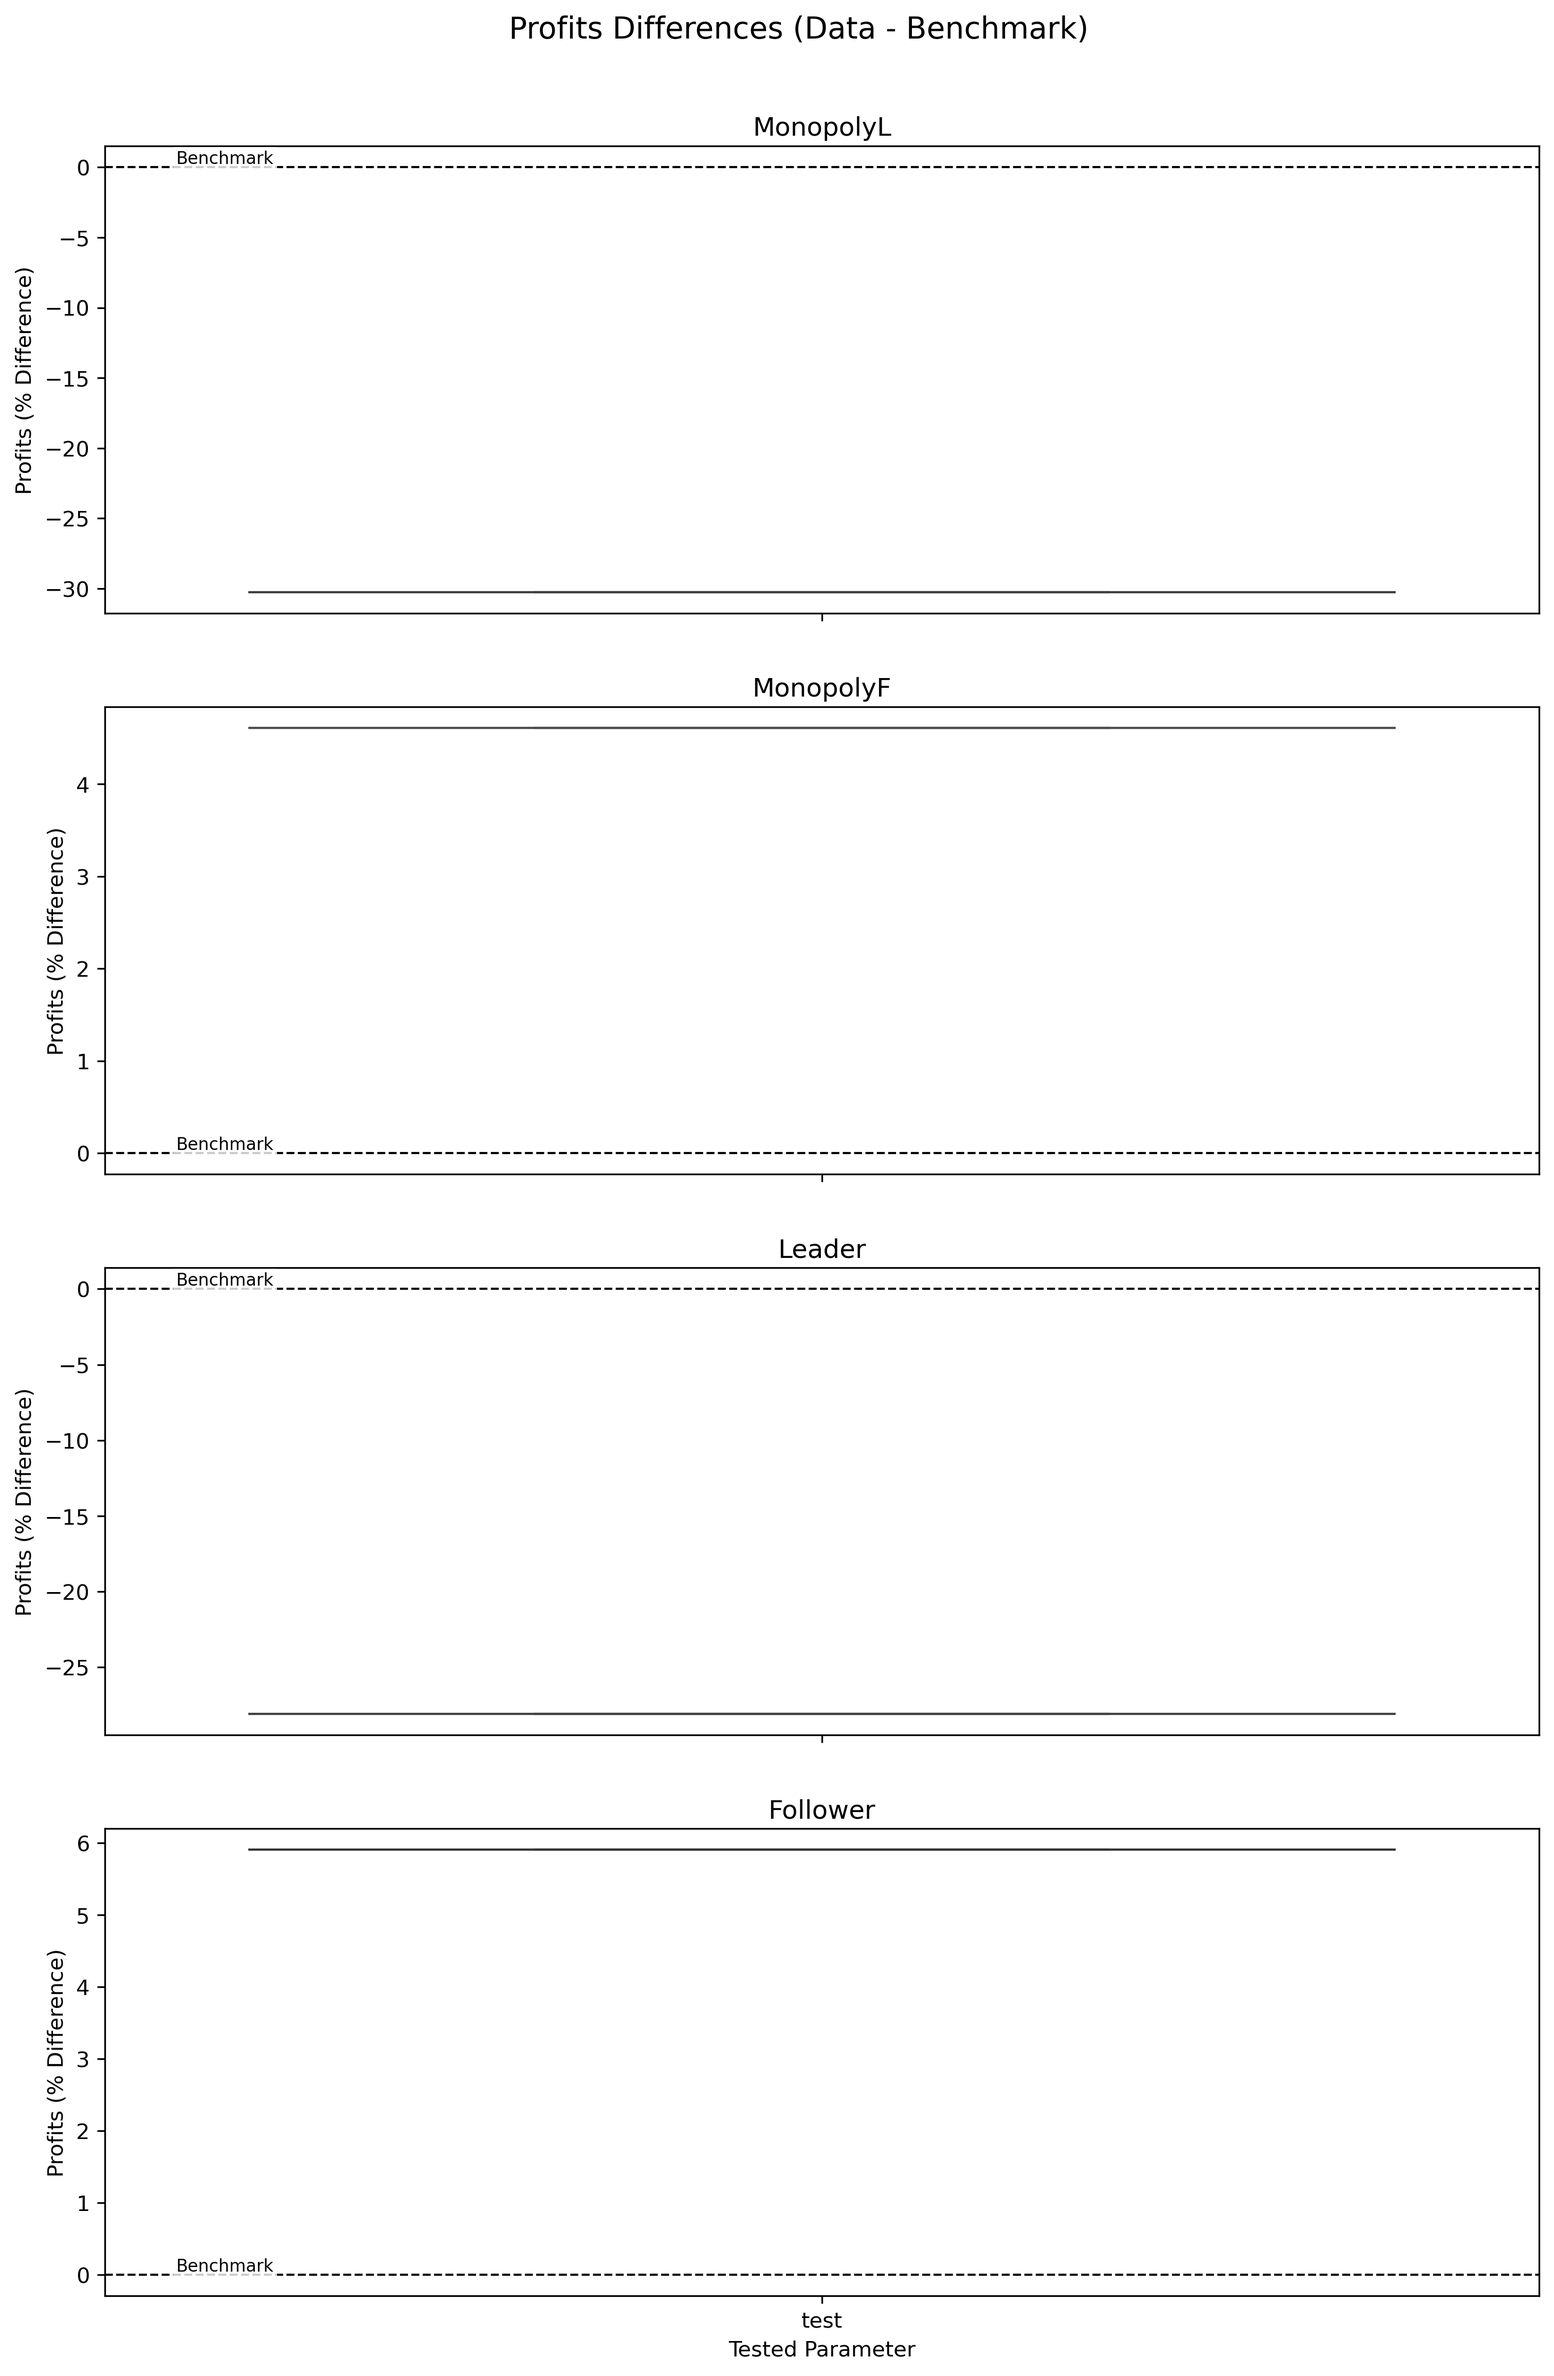
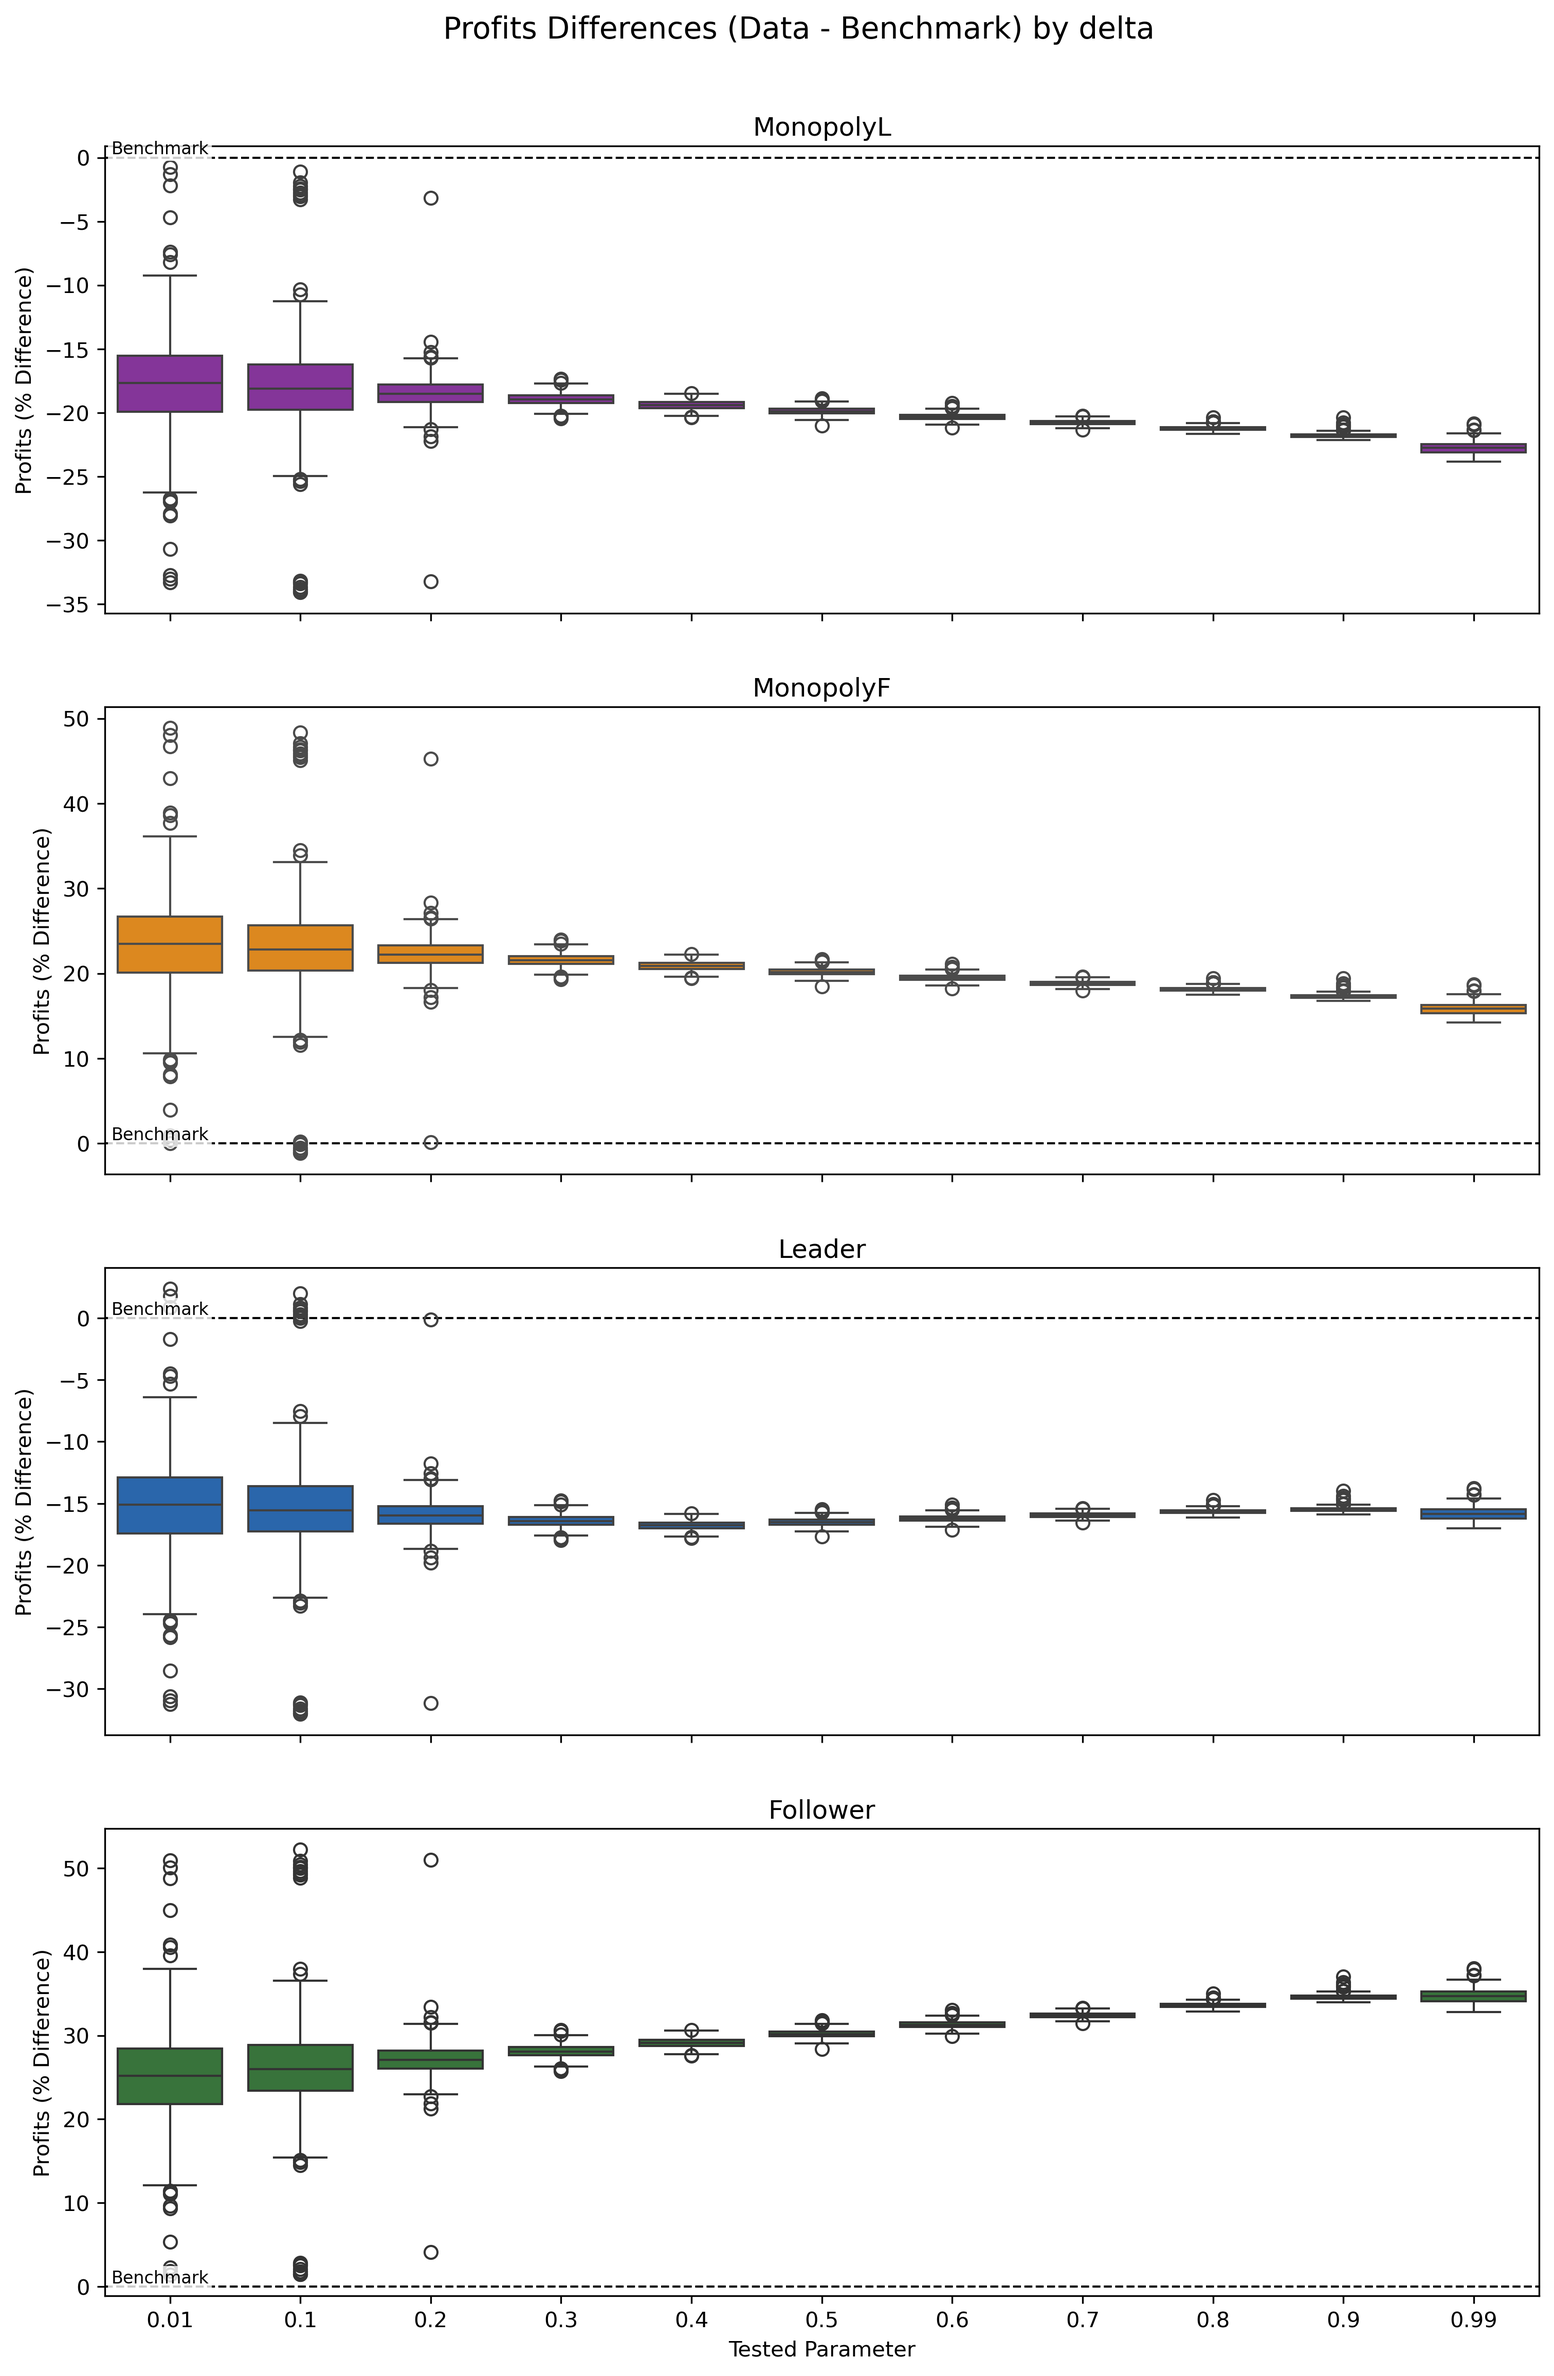
updt

diff --git a/Visualize.py b/Visualize.py
@@ -904,6 +904,22 @@ def PlotParallel(column_groups,value_name,separate_firms=False):
 
     parameter_order = sorted(final_data_dict.keys(), key=parameter_sort_key)
 
+    def parameter_display_parts(parameter):
+        number_match = re.search(r'[-+]?\d*\.?\d+(?:[eE][-+]?\d+)?', parameter)
+        if not number_match:
+            return parameter, ""
+        return number_match.group(), parameter[:number_match.start()]
+
+    parameter_labels = [parameter_display_parts(parameter)[0] for parameter in parameter_order]
+    parameter_prefixes = {
+        parameter_display_parts(parameter)[1]
+        for parameter in parameter_order
+        if parameter_display_parts(parameter)[1]
+    }
+    if len(parameter_prefixes) == 1:
+        tested_parameter = next(iter(parameter_prefixes))
+        title = f"{title} by {tested_parameter}"
+
     plot_rows = []
     for key,curr_df in final_data_dict.items():
         for group_label, column_pattern in column_groups.items():
@@ -1009,6 +1025,8 @@ def PlotParallel(column_groups,value_name,separate_firms=False):
         ax.set_title(group_label, pad=5)
         ax.set_xlabel("")
         ax.set_ylabel(axis_label)
+        ax.set_xticks(range(len(parameter_order)))
+        ax.set_xticklabels(parameter_labels)
 
     axes[-1].set_xlabel("Tested Parameter")
     fig.subplots_adjust(top=0.93, hspace=0.20)
@@ -1049,6 +1067,19 @@ def PlotWelfareParallel():
         return (parameter, float("inf"), parameter)
 
     parameter_order = sorted(final_data_dict.keys(), key=parameter_sort_key)
+
+    def parameter_display_parts(parameter):
+        number_match = re.search(r'[-+]?\d*\.?\d+(?:[eE][-+]?\d+)?', parameter)
+        if not number_match:
+            return parameter, ""
+        return number_match.group(), parameter[:number_match.start()]
+
+    parameter_parts = [parameter_display_parts(parameter) for parameter in parameter_order]
+    parameter_labels = [label for label, _ in parameter_parts]
+    parameter_prefixes = {prefix for _, prefix in parameter_parts if prefix}
+    title_suffix = ""
+    if len(parameter_prefixes) == 1:
+        title_suffix = f" by {next(iter(parameter_prefixes))}"
 
     CS_plot_rows = []
     M_Val_rows = []
@@ -1096,8 +1127,9 @@ def PlotWelfareParallel():
         )
 
     
-    plt.title("Consumer Surplus Distribution", fontsize=14)
-    plt.xlabel("Key Type", fontsize=12)
+    plt.xticks(range(len(parameter_order)), parameter_labels)
+    plt.title(f"Consumer Surplus Distribution{title_suffix}", fontsize=14)
+    plt.xlabel("Tested Parameter", fontsize=12)
     plt.ylabel("Consumer Surplus Difference (%)", fontsize=12)
     plt.grid(axis='y', linestyle='--', alpha=0.7)
 
@@ -1129,8 +1161,9 @@ def PlotWelfareParallel():
         )
 
 
-    plt.title("Innovation Rate Distribution", fontsize=14)
-    plt.xlabel("Key Type", fontsize=12)
+    plt.xticks(range(len(parameter_order)), parameter_labels)
+    plt.title(f"Innovation Rate Distribution{title_suffix}", fontsize=14)
+    plt.xlabel("Tested Parameter", fontsize=12)
     plt.ylabel("Benchmark Innovation Rate vs Market (%)", fontsize=12)
     plt.grid(axis='y', linestyle='--', alpha=0.7)
 
@@ -1171,6 +1204,19 @@ def PlotStrategyParallel():
 
     parameter_order = sorted(final_data_dict.keys(), key=parameter_sort_key)
 
+    def parameter_display_parts(parameter):
+        number_match = re.search(r'[-+]?\d*\.?\d+(?:[eE][-+]?\d+)?', parameter)
+        if not number_match:
+            return parameter, ""
+        return number_match.group(), parameter[:number_match.start()]
+
+    parameter_parts = [parameter_display_parts(parameter) for parameter in parameter_order]
+    parameter_labels = [label for label, _ in parameter_parts]
+    parameter_prefixes = {prefix for _, prefix in parameter_parts if prefix}
+    title_suffix = ""
+    if len(parameter_prefixes) == 1:
+        title_suffix = f" by {next(iter(parameter_prefixes))}"
+
     strategy_plot_rows = []
     states_plot_rows = []
     for key,curr_df in final_data_dict.items():
@@ -1204,8 +1250,9 @@ def PlotStrategyParallel():
     legend=False        
 )
     
-    plt.title("Market Convergence Time", fontsize=14)
-    plt.xlabel("Key Type", fontsize=12)
+    plt.xticks(range(len(parameter_order)), parameter_labels)
+    plt.title(f"Market Convergence Time{title_suffix}", fontsize=14)
+    plt.xlabel("Tested Parameter", fontsize=12)
     plt.ylabel("Iterations", fontsize=12)
     plt.grid(axis='y', linestyle='--', alpha=0.7)
 
@@ -1224,15 +1271,17 @@ def PlotStrategyParallel():
     legend=False        
 )
 
-    plt.title("Number of Unique States", fontsize=14)
-    plt.xlabel("Key Type", fontsize=12)
+    plt.xticks(range(len(parameter_order)), parameter_labels)
+    plt.title(f"Number of Unique States{title_suffix}", fontsize=14)
+    plt.xlabel("Tested Parameter", fontsize=12)
     plt.ylabel("Unique States", fontsize=12)
     plt.grid(axis='y', linestyle='--', alpha=0.7)
 
     plt.savefig(save_path_M, dpi=300, bbox_inches='tight')
     plt.close()
 
-def Parallel_Outputs(Firms):
+def Parallel_Outputs(MaxFirms):
+
     #Normal plot
     PlotParallel(column_groups={"Monopoly": r"^MonopolyPrice_F","Leader": r"^LeaderPrice_F","Follower": r"^FollowerPrice_F",},
                 value_name = "Prices")
@@ -1244,7 +1293,7 @@ def Parallel_Outputs(Firms):
                 value_name = "MarketShares")
         
     #Leader Plot
-    for leader in range(Firms):
+    for leader in range(MaxFirms):
         PlotParallel(column_groups={"Monopoly": f"^Leader{leader}_MonopolyPrice_F","Leader": f"^Leader{leader}_LeaderPrice_F","Follower": f"^Leader{leader}_FollowerPrice_F",},
                     value_name = f"Prices_Leader{leader}",
                     separate_firms=True)
@@ -1257,7 +1306,6 @@ def Parallel_Outputs(Firms):
         PlotParallel(column_groups={"MonopolyL": f"^Leader{leader}_MonopolyLMrktShr_F","MonopolyF": f"^Leader{leader}_MonopolyFMrktShr_F","Leader": f"^Leader{leader}_LeaderMrktShr_F","Follower": f"^Leader{leader}_FollowerMrktShr_F",},
                 value_name = f"MarketShares_Leader{leader}",
                 separate_firms=True)
-
 
 
     #Welfare Plot

diff --git a/Main.py b/Main.py
@@ -20,8 +20,6 @@ def Simulate(ClusterTest=False,Progress=True):
     parser.add_argument("--firms", type=int, default=None)
     parser.add_argument("--lags", type=int, default=None)
     parser.add_argument("--K", type=int, default=None)
-    parser.add_argument("--delta", type=float, default=None)
-    parser.add_argument("--epsilon_decay", type=float, default=None)
     parser.add_argument("--learningrate", type=float, default=None)
     parser.add_argument("--beta",type=float,default=None)
     parser.add_argument("--alpha",type=float,default=None)
@@ -38,8 +36,6 @@ def Simulate(ClusterTest=False,Progress=True):
         "firms": args.firms,
         "lags": args.lags,
         "K": args.K,
-        "delta": args.delta,
-        "epsilon_decay": args.epsilon_decay,
         "learningrate": args.learningrate,
         "beta":args.beta,
         "alpha":args.alpha,
@@ -356,3 +352,4 @@ def Simulate(ClusterTest=False,Progress=True):
 
 Simulate(True,False) #cluster
 #Simulate() # local
+#Simulate(True,True) #cluster progress

diff --git a/Settings.py b/Settings.py
@@ -14,7 +14,7 @@ class Config:
     lags: int = 1
     firms: int = 2
     mrktsz: int = 1000
-    caplen:int = 10**8 #hard cap at 100M iterations
+    caplen:int = 10**9 #hard cap at 1B iterations
     startingM:int=1
     #Demand features
     mc: int = 1
@@ -166,7 +166,7 @@ class Config:
             monopoly_follower_profits = ((monopoly_price - self.mc)*monopoly_follower_marketshare) - monopoly_investment
 
         else:
-            D =  ((1 + self.b) * math.exp(-self.a * monopoly_price)) + 1
+            MonopolyD =  ((1 + self.b) * math.exp(-self.a * monopoly_price)) + 1
 
         #Market Shares - monopoly leader
         monopoly_leader_marketshare = ((1+self.b)*math.exp(-self.a * monopoly_price)/MonopolyD)*self.mrktsz
